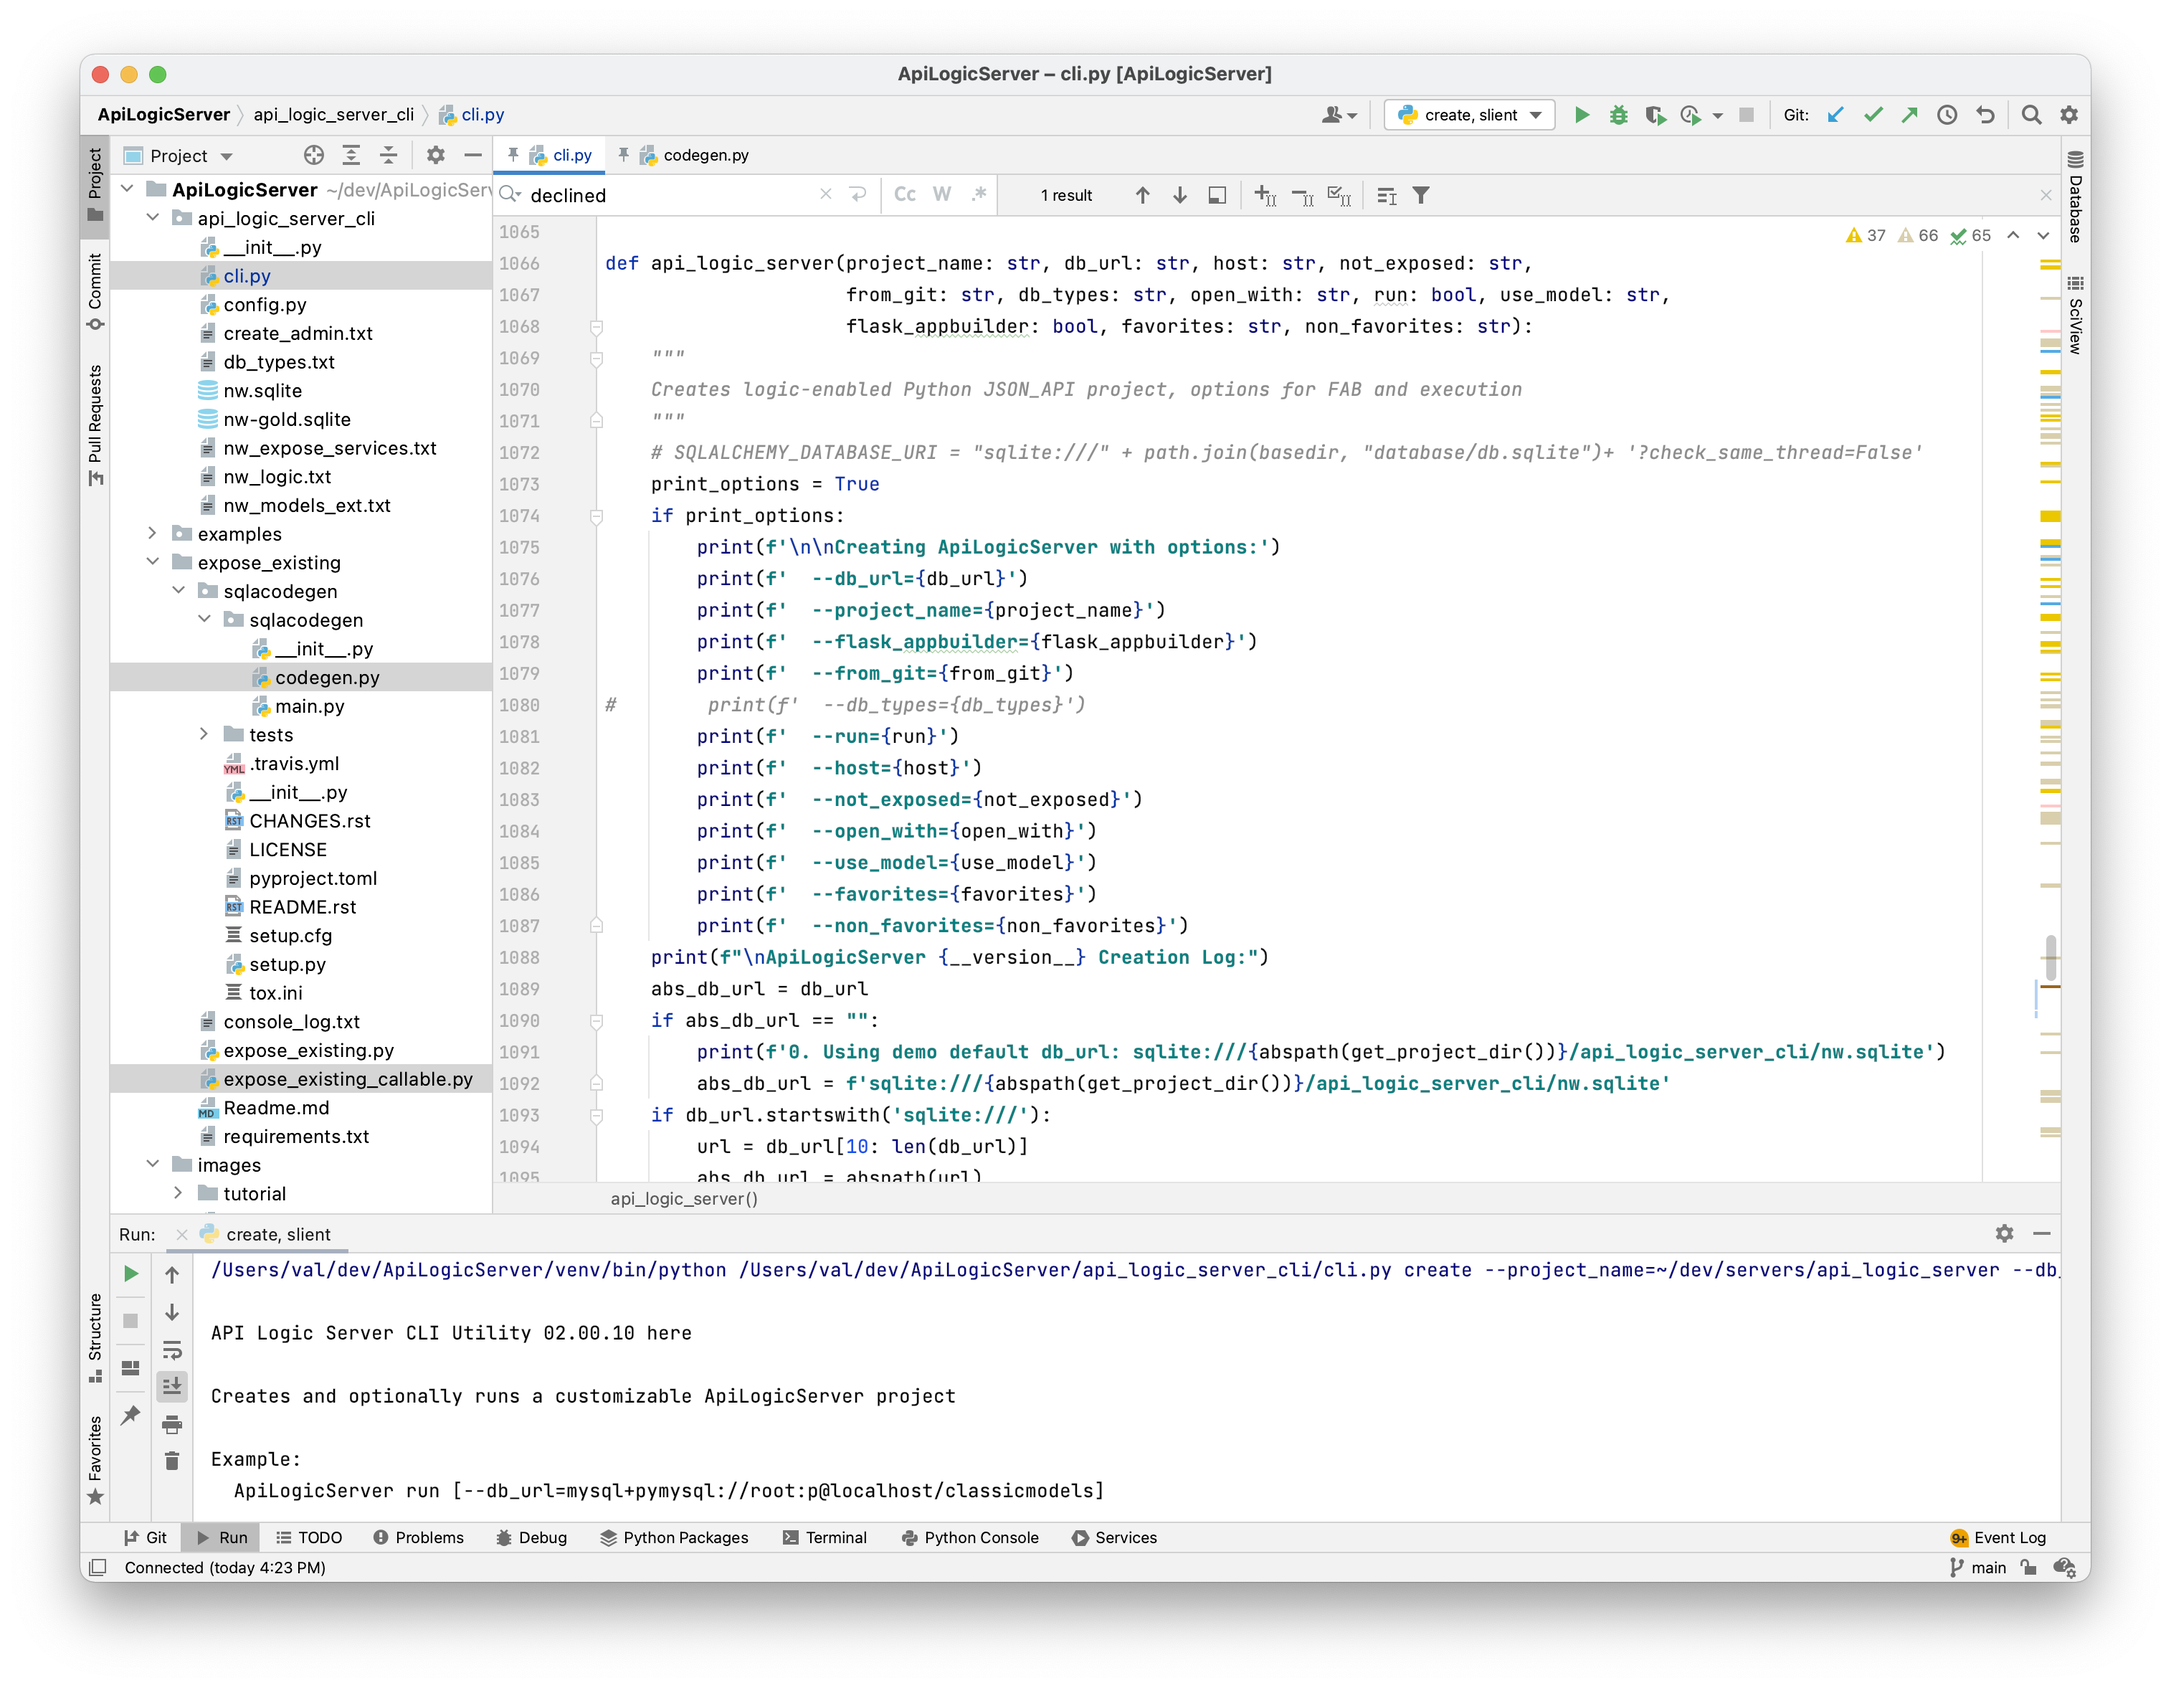
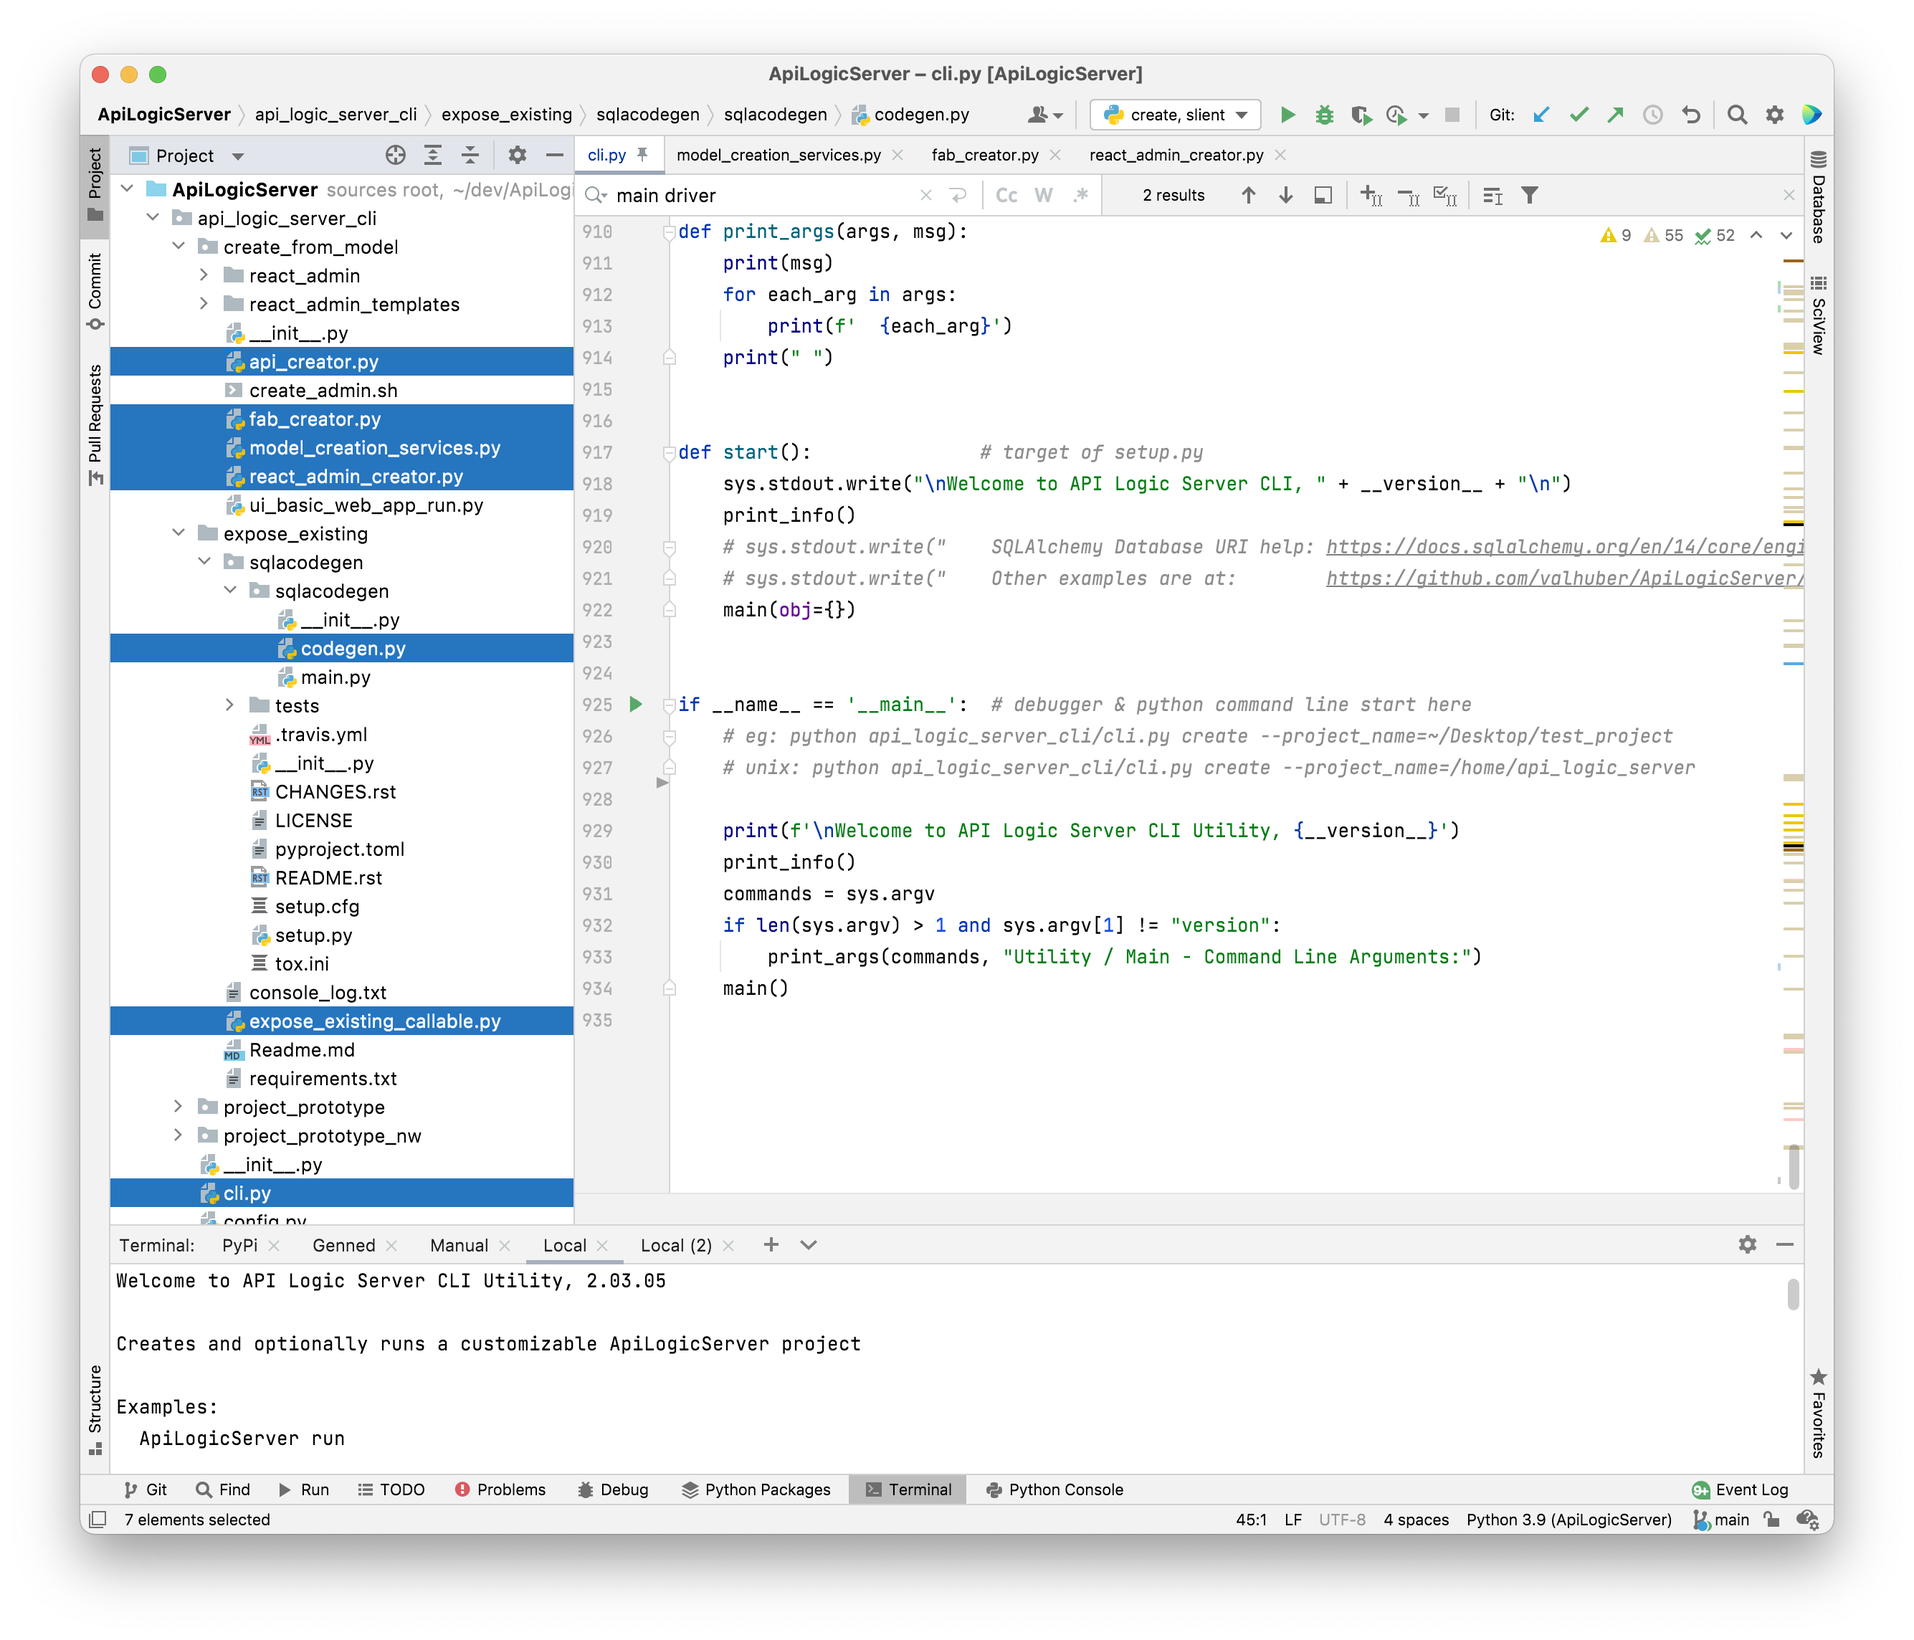
fix logic for nw, revised project structure

diff --git a/api_logic_server_cli/cli.py b/api_logic_server_cli/cli.py
@@ -28,9 +28,12 @@ import os
 import importlib
 import click
 
+(did_fix_path, sys_env_info) = \
+    logic_bank_utils.add_python_path(project_dir="ApiLogicServer", my_file=__file__)
+
 from api_logic_server_cli.create_from_model.model_creation_services import CreateFromModel
 
-__version__ = "2.03.04"
+__version__ = "2.03.05"
 
 from api_logic_server_cli.expose_existing import expose_existing_callable
 
@@ -49,6 +52,7 @@ def create_app(config_filename=None, host="localhost"):
     db = safrs.DB
     db.init_app(app)
     return app
+
 
 def delete_dir(dir_path, msg):
     """
@@ -706,7 +710,7 @@ def version(ctx):
     click.echo(
         click.style(
             f'Recent Changes:\n'
-            "\t08/17/2021 - 02.03.04: Create react-admin app (tech exploration)\n"
+            "\t08/22/2021 - 02.03.05: Create react-admin app (tech exploration), cmdline debug fix\n"
             "\t07/22/2021 - 02.02.29: help command arg for starting APILogicServer / Basic Web App; SAFRS 2.11.5\n"
             "\t05/27/2021 - 02.02.28: Flask AppBuilder 3.3.0\n"
             "\t05/26/2021 - 02.02.27: Clearer logicbank multi-table chain log - show attribute names\n"
@@ -921,8 +925,6 @@ def start():               # target of setup.py
 if __name__ == '__main__':  # debugger & python command line start here
     # eg: python api_logic_server_cli/cli.py create --project_name=~/Desktop/test_project
     # unix: python api_logic_server_cli/cli.py create --project_name=/home/api_logic_server
-    (did_fix_path, sys_env_info) = \
-        logic_bank_utils.add_python_path(project_dir="ApiLogicServer", my_file=__file__)
 
     print(f'\nWelcome to API Logic Server CLI Utility, {__version__}')
     print_info()
